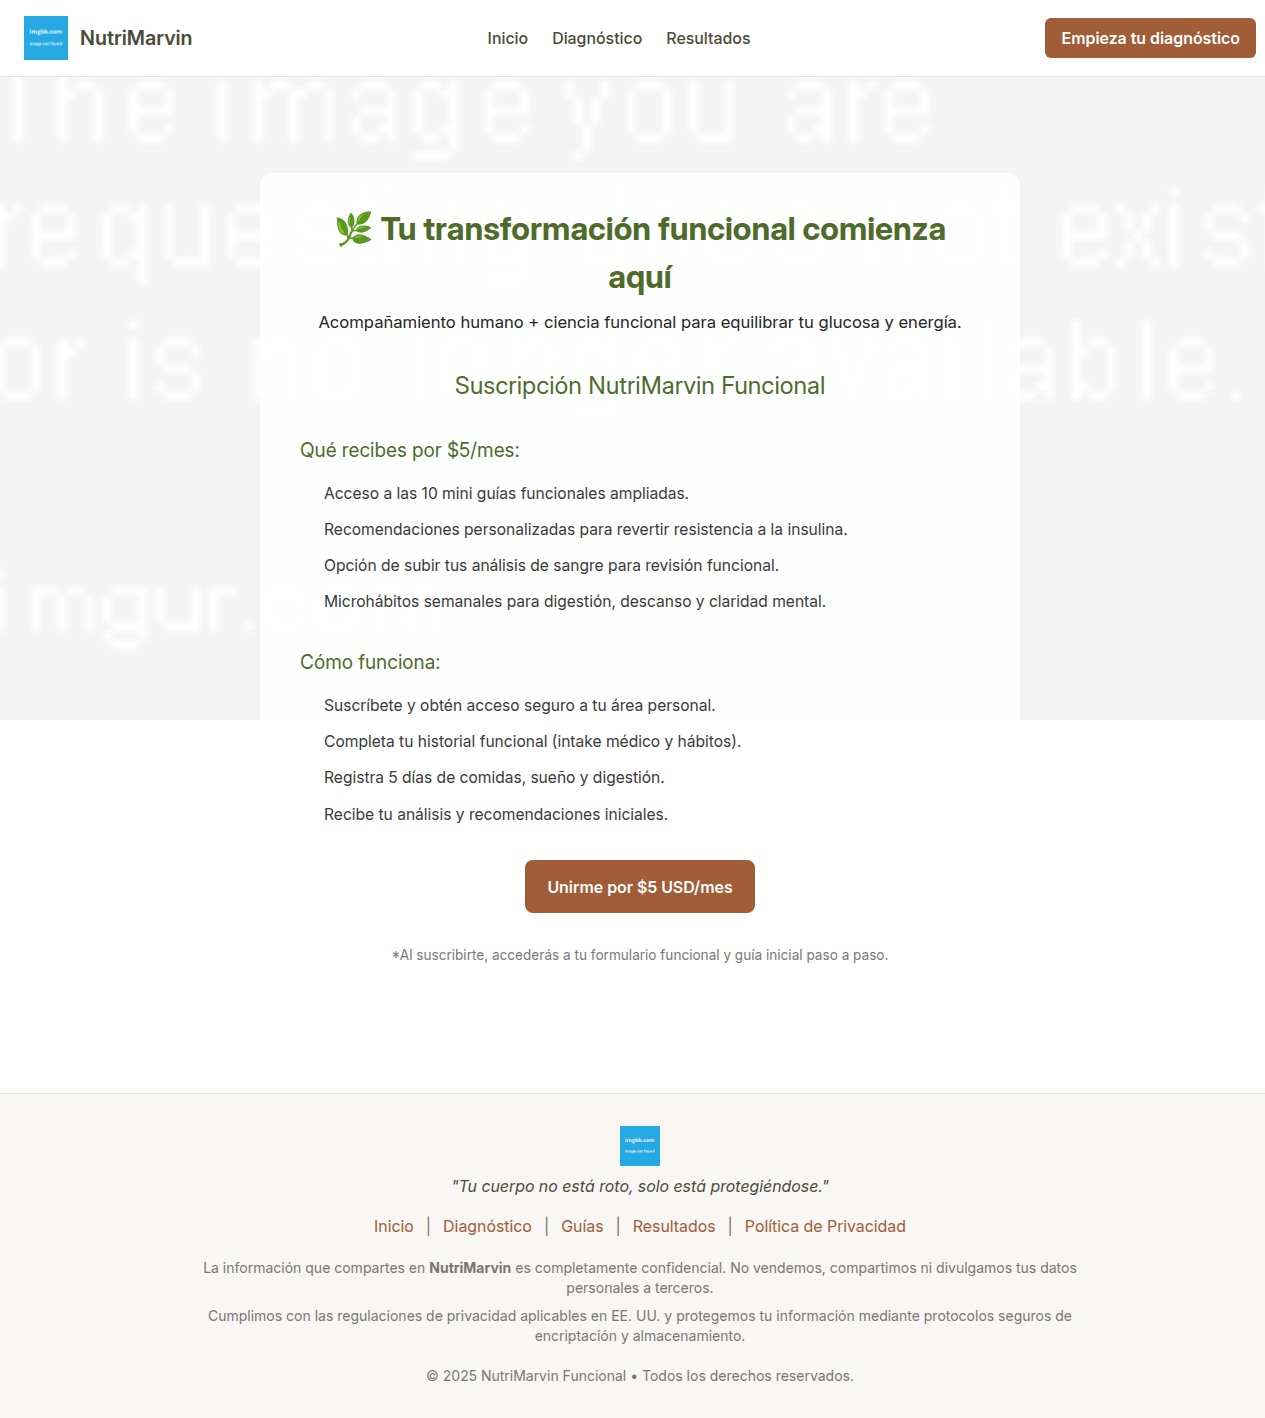
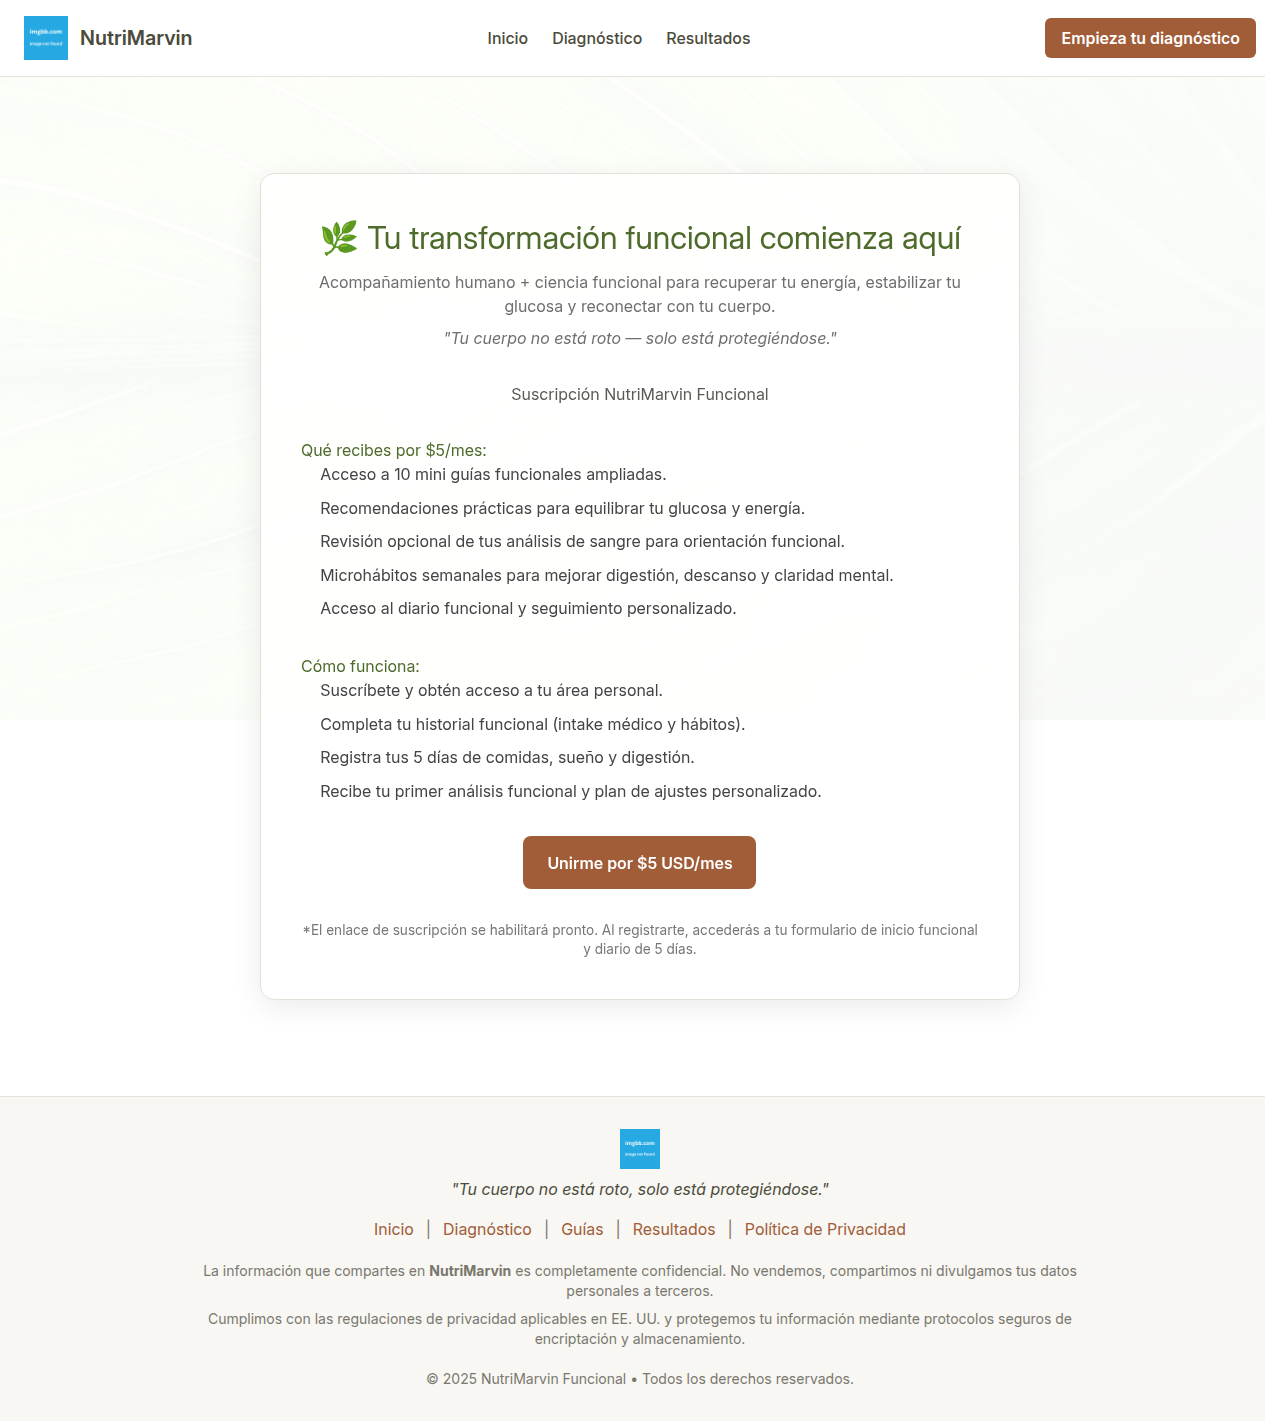
Add translucent leaf background image to the subscription page
Update `Suscripcion.tsx` to import and apply a new background image using CSS variables. Modify `suscripcion.css` to implement the background image with opacity and a translucent overlay, addressing the user's report of the background not being visible.

Replit-Commit-Author: Agent
Replit-Commit-Session-Id: 51df3754-4669-4e99-88ef-0c9f1ad9a4ce
Replit-Commit-Checkpoint-Type: full_checkpoint
Replit-Commit-Screenshot-Url: https://storage.googleapis.com/screenshot-production-us-central1/38698943-621b-4d00-b740-72fa0d163926/51df3754-4669-4e99-88ef-0c9f1ad9a4ce/57JTKxO

diff --git a/client/src/styles/suscripcion.css b/client/src/styles/suscripcion.css
@@ -2,20 +2,50 @@
    ESTILOS SUSCRIPCIÓN NUTRIMARVIN
    ================================ */
 
+/* ===== Página completa ===== */
+.suscripcion-page {
+  min-height: 100vh;
+  display: flex;
+  flex-direction: column;
+}
+
 /* ===== Fondo translúcido con hojas suaves ===== */
 .suscripcion {
-  background: linear-gradient(rgba(255,255,255,0.9), rgba(255,255,255,0.9)),
-              url('https://i.imgur.com/Zbg8q0K.jpg');
+  flex: 1;
+  position: relative;
+  padding: 2rem 0;
+}
+
+.suscripcion::before {
+  content: '';
+  position: absolute;
+  top: 0;
+  left: 0;
+  right: 0;
+  bottom: 0;
+  background-image: var(--suscripcion-bg-image);
   background-size: cover;
   background-position: center;
   background-attachment: fixed;
-  min-height: 100vh;
-  padding: 2rem 0;
-  margin: 0;
+  opacity: 0.3;
+  z-index: 0;
+}
+
+.suscripcion::after {
+  content: '';
+  position: absolute;
+  top: 0;
+  left: 0;
+  right: 0;
+  bottom: 0;
+  background: rgba(255,255,255,0.9);
+  z-index: 0;
 }
 
 /* ===== Contenedor principal ===== */
 .suscripcion .wrap {
+  position: relative;
+  z-index: 1;
   max-width: 760px;
   margin: 4rem auto;
   background: rgba(255, 255, 255, 0.85);

diff --git a/client/src/pages/Suscripcion.tsx b/client/src/pages/Suscripcion.tsx
@@ -1,6 +1,7 @@
 import Header from "@/components/Header";
 import Footer from "@/components/Footer";
 import "../styles/suscripcion.css";
+import backgroundImage from "@assets/stock_images/soft_translucent_gre_3ac61690.jpg";
 
 export default function Suscripcion() {
   const handleSubscribe = () => {
@@ -9,10 +10,13 @@ export default function Suscripcion() {
   };
 
   return (
-    <div className="min-h-screen flex flex-col">
+    <div className="suscripcion-page">
       <Header />
       
-      <section className="suscripcion">
+      <div 
+        className="suscripcion"
+        style={{ '--suscripcion-bg-image': `url(${backgroundImage})` } as React.CSSProperties}
+      >
         <div className="wrap">
           <h1>🌿 Tu transformación funcional comienza aquí</h1>
           <p className="sub">
@@ -55,7 +59,7 @@ export default function Suscripcion() {
             </div>
           </div>
         </div>
-      </section>
+      </div>
 
       <Footer />
     </div>
